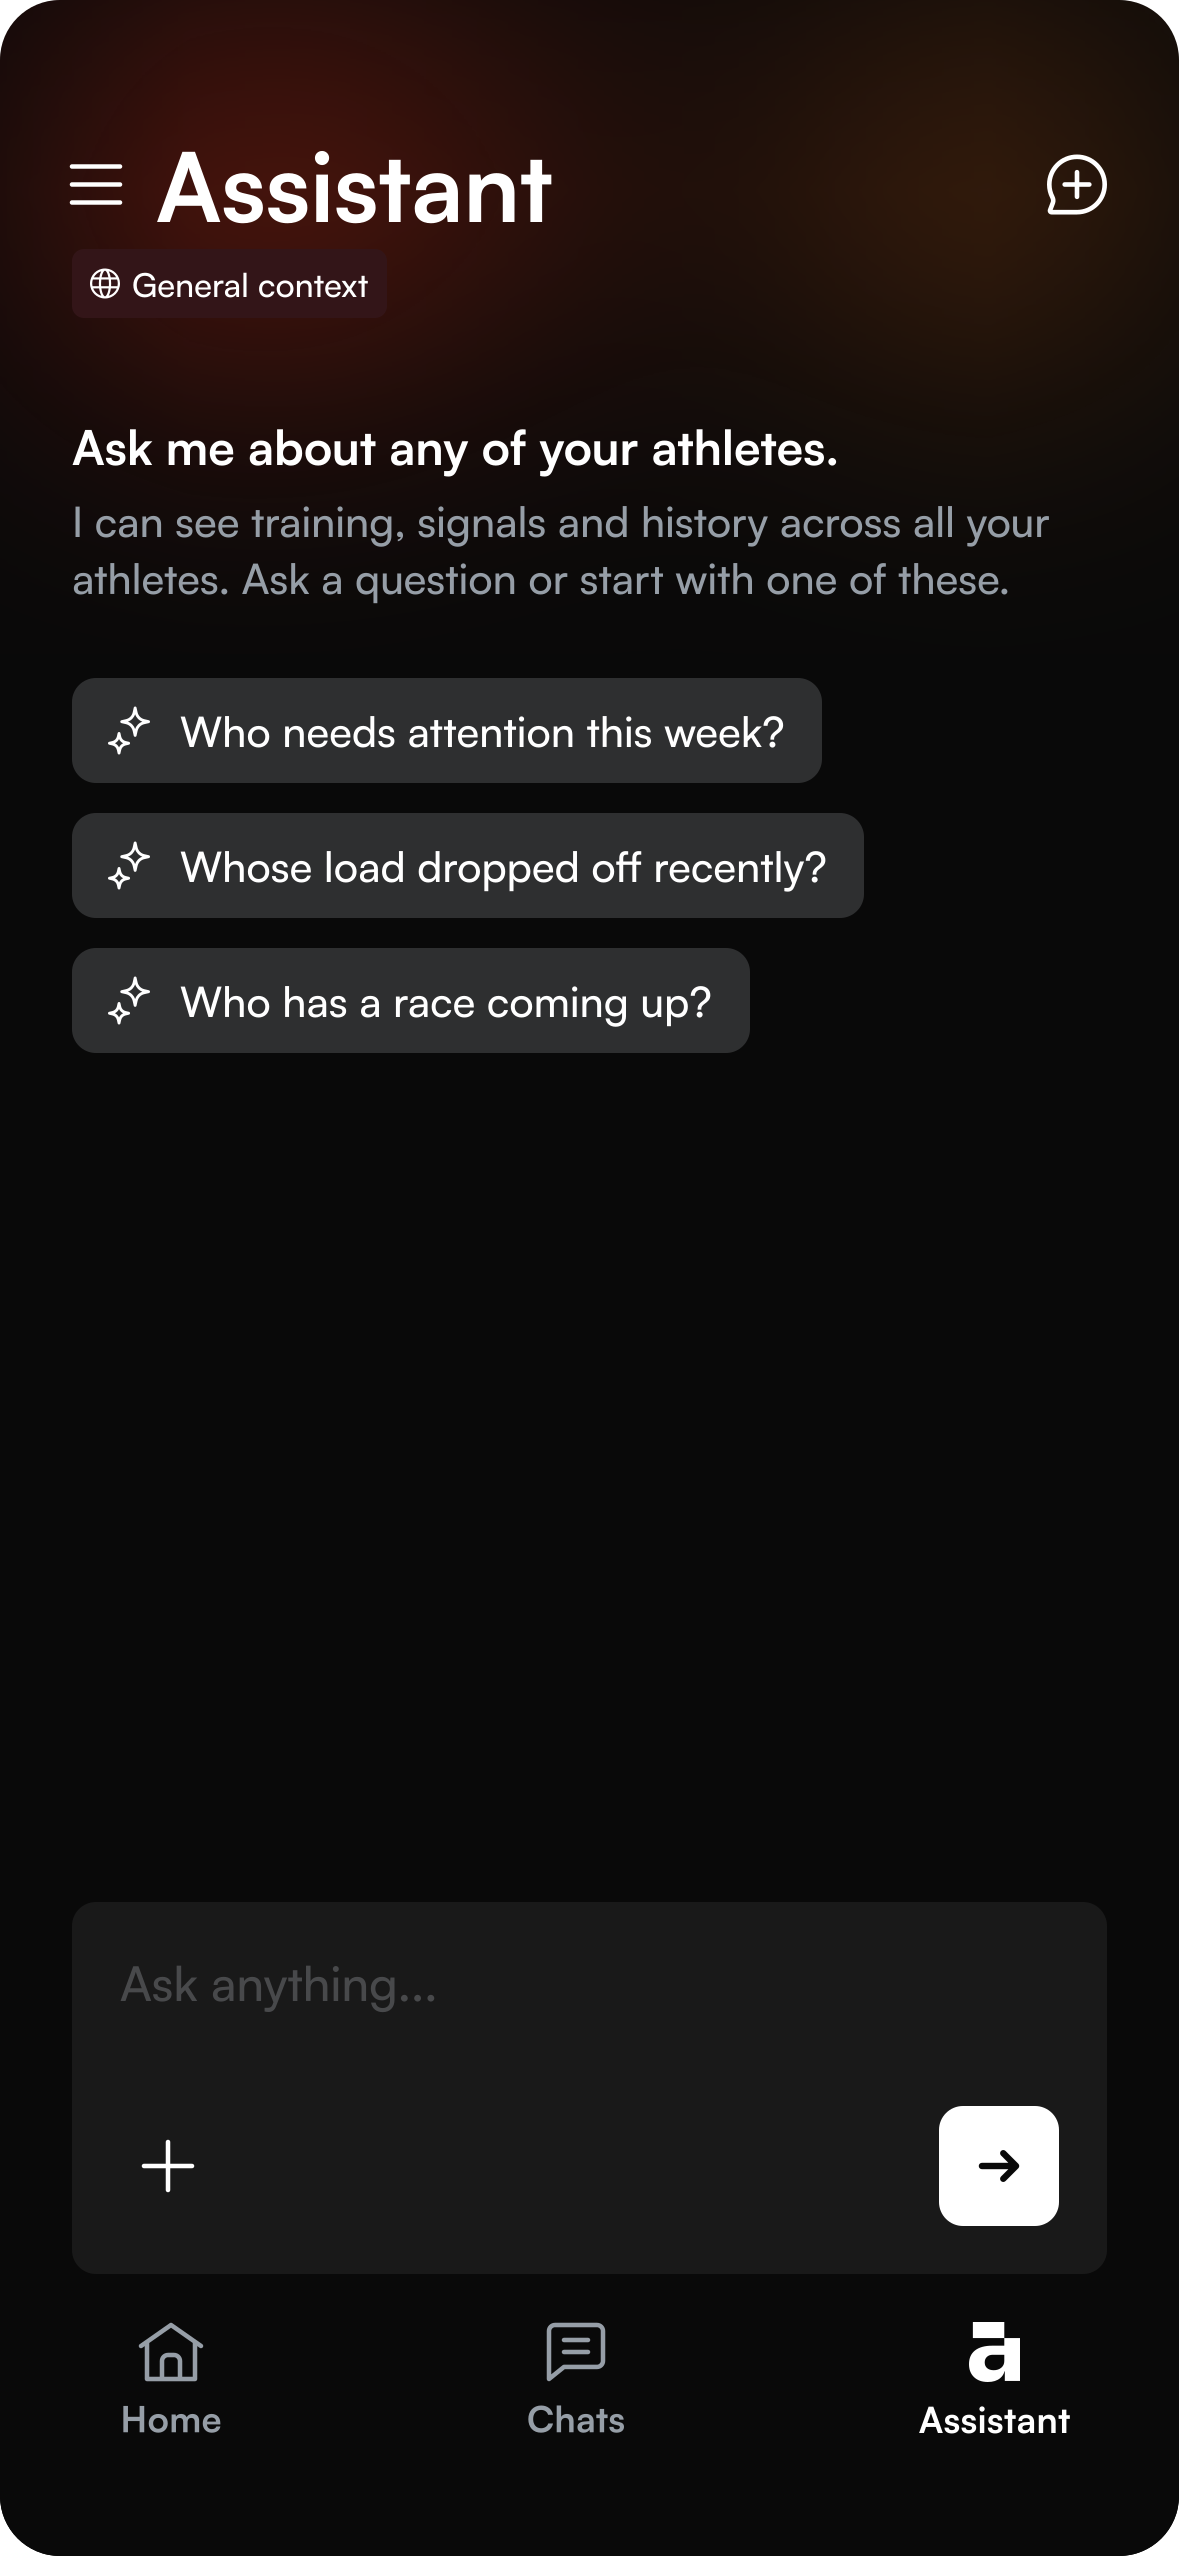
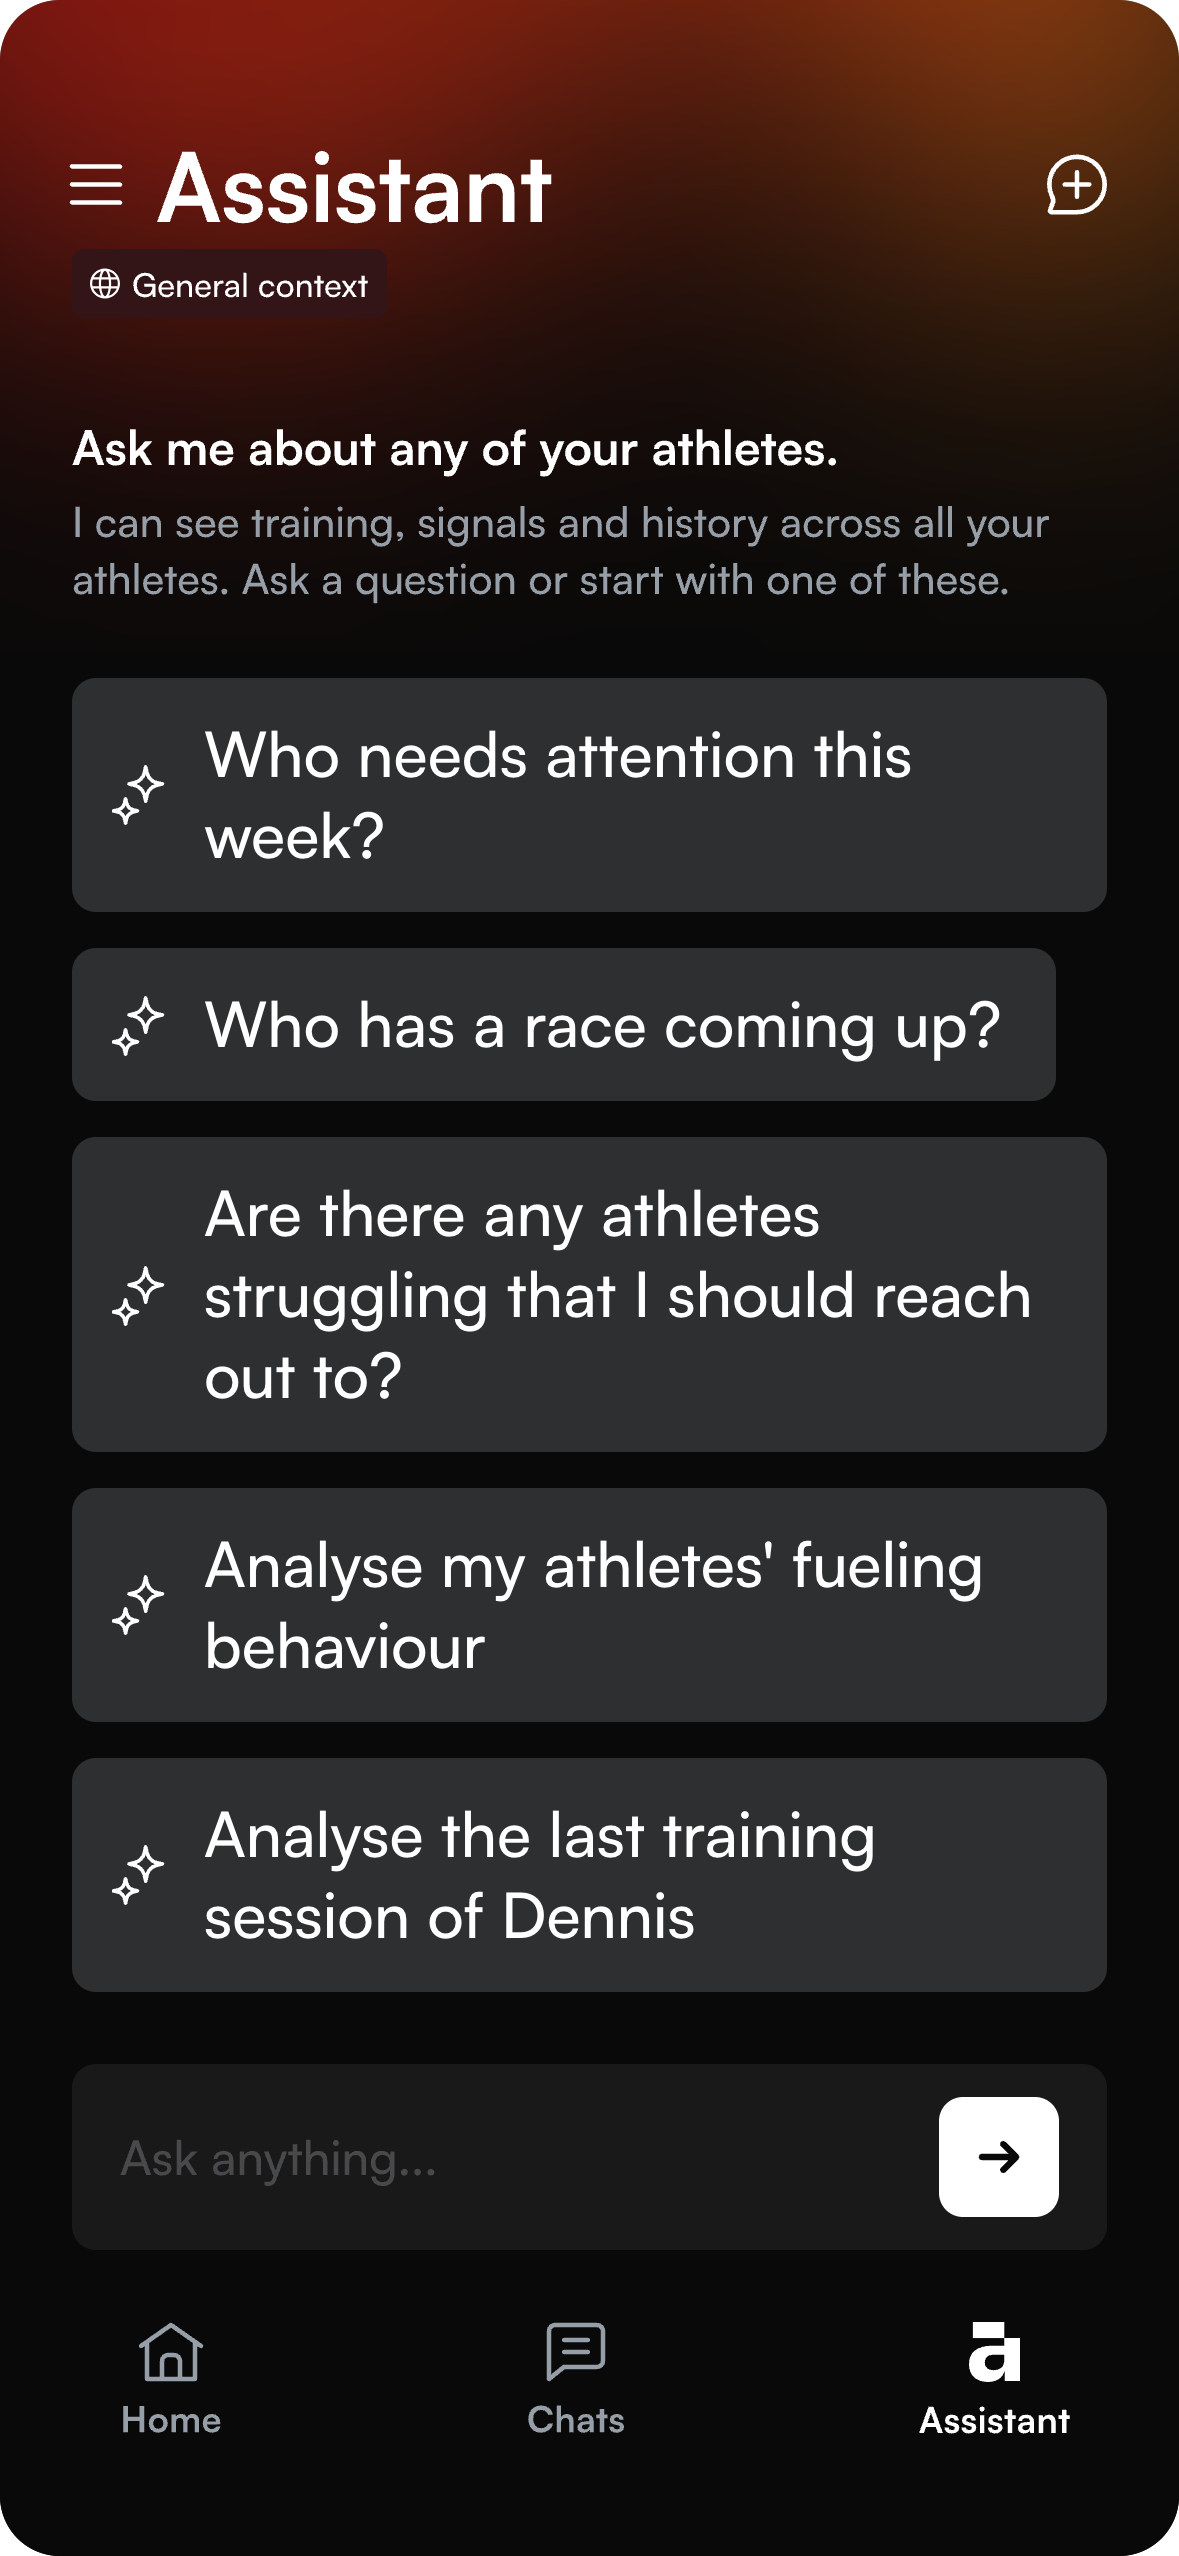
feat(hero): new assistant questions in larger text, smaller chat box, flatter phone

diff --git a/src/components/Hero.tsx b/src/components/Hero.tsx
@@ -486,7 +486,7 @@ export default function Hero({ onWatchFilm }: HeroProps) {
                         src={imgAssistant}
                         src2x={imgAssistant2x}
                         alt="augo AI assistant on iPhone"
-                        style={{ width: '32%', bottom: 0, zIndex: 3, transform: 'rotateY(16deg) rotate(-3deg)' }}
+                        style={{ width: '32%', bottom: 0, zIndex: 3, transform: 'rotateY(6deg) rotate(-1.5deg)' }}
                     />
                 </div>
             </div>
